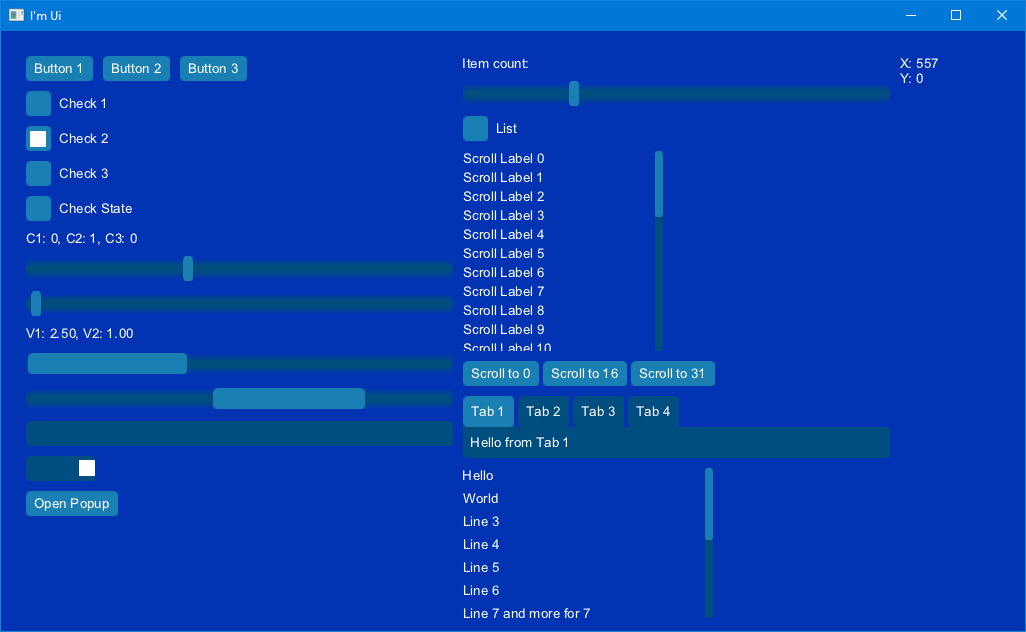
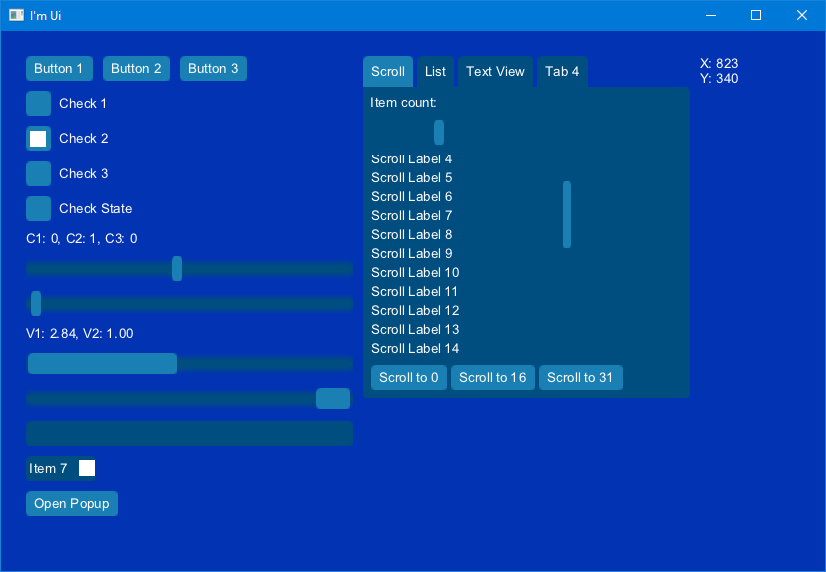
better screenshots

diff --git a/samples/src/04_widgets.c b/samples/src/04_widgets.c
@@ -33,7 +33,8 @@ static void			imuiToolboxSampleSlidersAndProgressBars( ImuiWindow* window );
 static void			imuiToolboxSampleTextEdit( ImuiWindow* window );
 static void			imuiToolboxSampleDropDown( ImuiWindow* window );
 static void			imuiToolboxSamplePopup( ImuiWindow* window );
-static void			imuiToolboxSampleScrollAndList( ImuiWindow* window );
+static void			imuiToolboxSampleScroll( ImuiWindow* window );
+static void			imuiToolboxSampleList( ImuiWindow* window );
 static void			imuiToolboxSampleTabView( ImuiWindow* window );
 static void			imuiToolboxSampleTextView( ImuiWindow* window );
 
@@ -72,9 +73,7 @@ void imuiToolboxSampleTick( ImuiWindow* window )
 		imuiWidgetSetHStretch( vLayout, 1.0f );
 		imuiWidgetSetLayoutVerticalSpacing( vLayout, 10.0f );
 
-		imuiToolboxSampleScrollAndList( window );
 		imuiToolboxSampleTabView( window );
-		imuiToolboxSampleTextView( window );
 
 		imuiWidgetEnd( vLayout );
 	}
@@ -161,82 +160,83 @@ static void imuiToolboxSampleTextEdit( ImuiWindow* window )
 	imuiToolboxTextEditStateBuffer( window, 128u );
 }
 
-static void imuiToolboxSampleScrollAndList( ImuiWindow* window )
+static void imuiToolboxSampleScroll( ImuiWindow* window )
 {
 	imuiToolboxLabel( window, "Item count:" );
 	const float itemCount = imuiToolboxSliderStateMinMaxDefault( window, 0.0f, 128.0f, 32.0f );
 
-	const bool useList = imuiToolboxCheckBoxStateDefault( window, "List", false );
+	const size_t count = (size_t)itemCount;
+
+	ImuiToolboxScrollAreaContext scrollArea;
+	imuiToolboxScrollAreaBegin( &scrollArea, window );
+	imuiWidgetSetMinSizeFloat( scrollArea.area, 200.0f, 200.0f );
+
+	ImuiWidget* scrollLayout = imuiWidgetBeginNamed( window, "scroll" );
+	imuiWidgetSetHStretch( scrollLayout, 1.0f );
+	imuiWidgetSetLayoutVerticalSpacing( scrollLayout, 4.0f );
+
+	size_t scrollIndices[ 3 ];
+	ImuiWidget* scrollWidgets[ 3 ];
+	scrollIndices[ 0 ] = 0;
+	scrollIndices[ 1 ] = count / 2;
+	scrollIndices[ 2 ] = count - 1;
+
+	for( size_t i = 0; i < count; ++i )
+	{
+		ImuiWidget* itemWidget = imuiToolboxLabelBeginFormat( window, "Scroll Label %i", i );
+		imuiToolboxLabelEnd( itemWidget );
+
+		for( size_t j = 0; j < IMUI_ARRAY_COUNT( scrollIndices ); ++j )
+		{
+			if( i == scrollIndices[ j ] )
+			{
+				scrollWidgets[ j ] = itemWidget;
+			}
+		}
+	}
+
+	imuiWidgetEnd( scrollLayout );
+	imuiToolboxScrollAreaEnd( &scrollArea );
+
+	if( count > 0 )
+	{
+		ImuiWidget* scrollToLayout = imuiWidgetBegin( window );
+		imuiWidgetSetHStretch( scrollToLayout, 1.0f );
+		imuiWidgetSetLayoutHorizontalSpacing( scrollToLayout, 4.0f );
+
+		for( size_t i = 0; i < IMUI_ARRAY_COUNT( scrollWidgets ); ++i )
+		{
+			if( imuiToolboxButtonLabelFormat( window, "Scroll to %d", scrollIndices[ i ] ) )
+			{
+				imuiToolboxScrollAreaOffsetTo( &scrollArea, scrollWidgets[ i ] );
+			}
+		}
+
+		imuiWidgetEnd( scrollToLayout );
+	}
+}
+
+static void imuiToolboxSampleList( ImuiWindow* window )
+{
+	imuiToolboxLabel( window, "Item count:" );
+	const float itemCount = imuiToolboxSliderStateMinMaxDefault( window, 0.0f, 128.0f, 32.0f );
 
 	const size_t count = (size_t)itemCount;
-	if( useList )
+	ImuiToolboxListContext list;
+	imuiToolboxListBegin( &list, window, 25.0f, count, true );
+	imuiWidgetSetMinSizeFloat( list.list, 200.0f, 200.0f );
+
+	for( size_t i = imuiToolboxListGetBeginIndex( &list ); i < imuiToolboxListGetEndIndex( &list ); ++i )
 	{
-		ImuiToolboxListContext list;
-		imuiToolboxListBegin( &list, window, 25.0f, count, true );
-		imuiWidgetSetMinSizeFloat( list.list, 200.0f, 200.0f );
+		ImuiWidget* item = imuiToolboxListNextItem( &list );
+		imuiWidgetSetPadding( item, imuiBorderCreateAll( 4.0f ) );
 
-		for( size_t i = imuiToolboxListGetBeginIndex( &list ); i < imuiToolboxListGetEndIndex( &list ); ++i )
-		{
-			ImuiWidget* item = imuiToolboxListNextItem( &list );
-			imuiWidgetSetPadding( item, imuiBorderCreateAll( 4.0f ) );
-
-			ImuiWidget* label = imuiToolboxLabelBeginFormat( window, "List Label %i", i );
-			imuiWidgetSetVAlign( label, 0.5f );
-			imuiToolboxLabelEnd( label );
-		}
-
-		imuiToolboxListEnd( &list );
+		ImuiWidget* label = imuiToolboxLabelBeginFormat( window, "List Label %i", i );
+		imuiWidgetSetVAlign( label, 0.5f );
+		imuiToolboxLabelEnd( label );
 	}
-	else
-	{
-		ImuiToolboxScrollAreaContext scrollArea;
-		imuiToolboxScrollAreaBegin( &scrollArea, window );
-		imuiWidgetSetMinSizeFloat( scrollArea.area, 200.0f, 200.0f );
 
-		ImuiWidget* scrollLayout = imuiWidgetBeginNamed( window, "scroll" );
-		imuiWidgetSetHStretch( scrollLayout, 1.0f );
-		imuiWidgetSetLayoutVerticalSpacing( scrollLayout, 4.0f );
-
-		size_t scrollIndices[ 3 ];
-		ImuiWidget* scrollWidgets[ 3 ];
-		scrollIndices[ 0 ] = 0;
-		scrollIndices[ 1 ] = count / 2;
-		scrollIndices[ 2 ] = count - 1;
-
-		for( size_t i = 0; i < count; ++i )
-		{
-			ImuiWidget* itemWidget = imuiToolboxLabelBeginFormat( window, "Scroll Label %i", i );
-			imuiToolboxLabelEnd( itemWidget );
-
-			for( size_t j = 0; j < IMUI_ARRAY_COUNT( scrollIndices ); ++j )
-			{
-				if( i == scrollIndices[ j ] )
-				{
-					scrollWidgets[ j ] = itemWidget;
-				}
-			}
-		}
-
-		imuiWidgetEnd( scrollLayout );
-		imuiToolboxScrollAreaEnd( &scrollArea );
-
-		if( count > 0 )
-		{
-			ImuiWidget* scrollToLayout = imuiWidgetBegin( window );
-			imuiWidgetSetHStretch( scrollToLayout, 1.0f );
-			imuiWidgetSetLayoutHorizontalSpacing( scrollToLayout, 4.0f );
-
-			for( size_t i = 0; i < IMUI_ARRAY_COUNT( scrollWidgets ); ++i )
-			{
-				if( imuiToolboxButtonLabelFormat( window, "Scroll to %d", scrollIndices[ i ] ) )
-				{
-					imuiToolboxScrollAreaOffsetTo( &scrollArea, scrollWidgets[ i ] );
-				}
-			}
-
-			imuiWidgetEnd( scrollToLayout );
-		}
-	}
+	imuiToolboxListEnd( &list );
 }
 
 static void imuiToolboxSampleDropDown( ImuiWindow* window )
@@ -299,24 +299,47 @@ static void imuiToolboxSampleTabView( ImuiWindow* window )
 	imuiToolboxTabViewBegin( &tabView, window );
 	imuiWidgetSetHStretch( tabView.view, 1.0f );
 
-	char buffer[ 32u ];
+	const char* tabTitle[] =
+	{
+		"Scroll",
+		"List",
+		"Text View",
+		"Tab 4"
+	};
 
 	size_t selectedTab = 0u;
 	for( size_t i = 0u; i < 4u; ++i )
 	{
-		snprintf( buffer, sizeof( buffer ), "Tab %zu", i + 1u );
-
-		if( imuiToolboxTabViewHeader( &tabView, buffer ) )
+		if( imuiToolboxTabViewHeader( &tabView, tabTitle[ i ] ) )
 		{
 			selectedTab = i;
 		}
 	}
 
 	imuiToolboxTabViewBodyBegin( &tabView );
+	ImuiWidget* vLayout = imuiWidgetBegin( window );
+	imuiWidgetSetLayoutVerticalSpacing( vLayout, 10.0f );
 
-	snprintf( buffer, sizeof( buffer ), "Hello from Tab %zu", selectedTab + 1u );
-	imuiToolboxLabel( window, buffer );
+	switch( selectedTab )
+	{
+	case 0:
+		imuiToolboxSampleScroll( window );
+		break;
 
+	case 1:
+		imuiToolboxSampleList( window );
+		break;
+
+	case 2:
+		imuiToolboxSampleTextView( window );
+		break;
+
+	default:
+		imuiToolboxLabelFormat( window, "Hello from Tab %zu", selectedTab + 1u );
+		break;
+	}
+
+	imuiWidgetEnd( vLayout );
 	imuiToolboxTabViewBodyEnd( &tabView );
 	imuiToolboxTabViewEnd( &tabView );
 }

diff --git a/samples/src/framework.c b/samples/src/framework.c
@@ -940,6 +940,11 @@ bool imuiFrameworkToolboxConfigDataInitialize( ImuiFrameworkToolboxConfigData* d
 		return false;
 	}
 
+	data->skinTab = data->skinRect;
+	data->skinTab.uv.v1 -= data->skinTab.border.bottom / data->skinTab.height;
+	data->skinTab.height -= (uint32_t)data->skinTab.border.bottom;
+	data->skinTab.border.bottom = 0.0f;
+
 	if( !imuiFrameworkSkinCreate( &data->skinLine, &data->skinLineTexture, 32u, 6.0f, 64.0f, true ) )
 	{
 		return false;
@@ -1032,9 +1037,9 @@ void imuiFrameworkToolboxConfigDataApply( const ImuiFrameworkToolboxConfigData* 
 	theme.skins[ ImuiToolboxSkin_DropDownList ]					= data->skinRect;
 	theme.skins[ ImuiToolboxSkin_DropDownItem ]					= data->skinRect;
 	theme.skins[ ImuiToolboxSkin_Popup ]						= data->skinRect;
-	theme.skins[ ImuiToolboxSkin_TabViewHeadBackground ]		= data->skinRect;
-	theme.skins[ ImuiToolboxSkin_TabViewHeaderActive ]			= data->skinRect;
-	theme.skins[ ImuiToolboxSkin_TabViewHeaderInactive ]		= data->skinRect;
+	theme.skins[ ImuiToolboxSkin_TabViewHeadBackground ]		= data->skinTab;
+	theme.skins[ ImuiToolboxSkin_TabViewHeaderActive ]			= data->skinTab;
+	theme.skins[ ImuiToolboxSkin_TabViewHeaderInactive ]		= data->skinTab;
 	theme.skins[ ImuiToolboxSkin_TabViewBody ]					= data->skinRect;
 	static_assert( ImuiToolboxSkin_MAX == 22, "more skins" );
 

diff --git a/samples/src/framework.h b/samples/src/framework.h
@@ -24,6 +24,7 @@ typedef struct ImuiFrameworkToolboxConfigData
 	ImuiImage	fontTexture;
 
 	ImuiSkin	skinRect;
+	ImuiSkin	skinTab;
 	ImuiImage	skinRectTexture;
 	ImuiSkin	skinLine;
 	ImuiImage	skinLineTexture;

diff --git a/README.md b/README.md
@@ -15,9 +15,10 @@ input handling, and rendering.
 - C++ API wrapper included
 - a lot more
 
-## Sample
+## Screenshots
 
 ![samples](samples/screen_shot.png)
+![imapp](samples/imapp_tool.png)
 
 ## Example
 

diff --git a/TODO.md b/TODO.md
@@ -6,3 +6,4 @@
 - multiline text select
 - multiline text editing
 - more?
+- Tooltips
